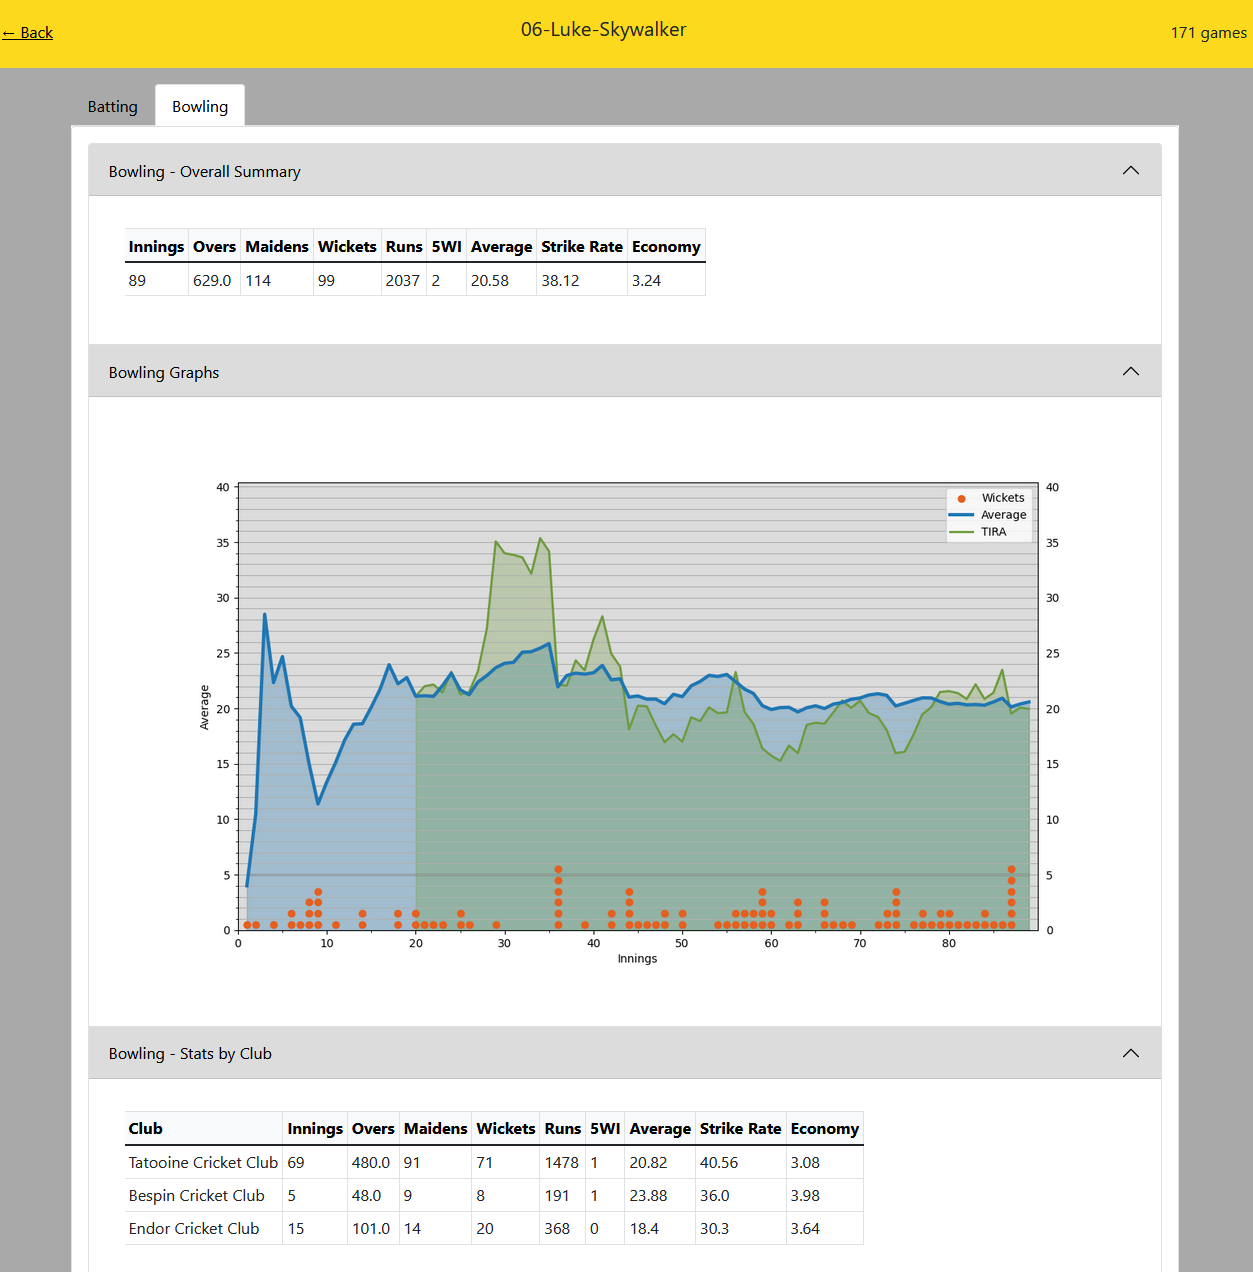
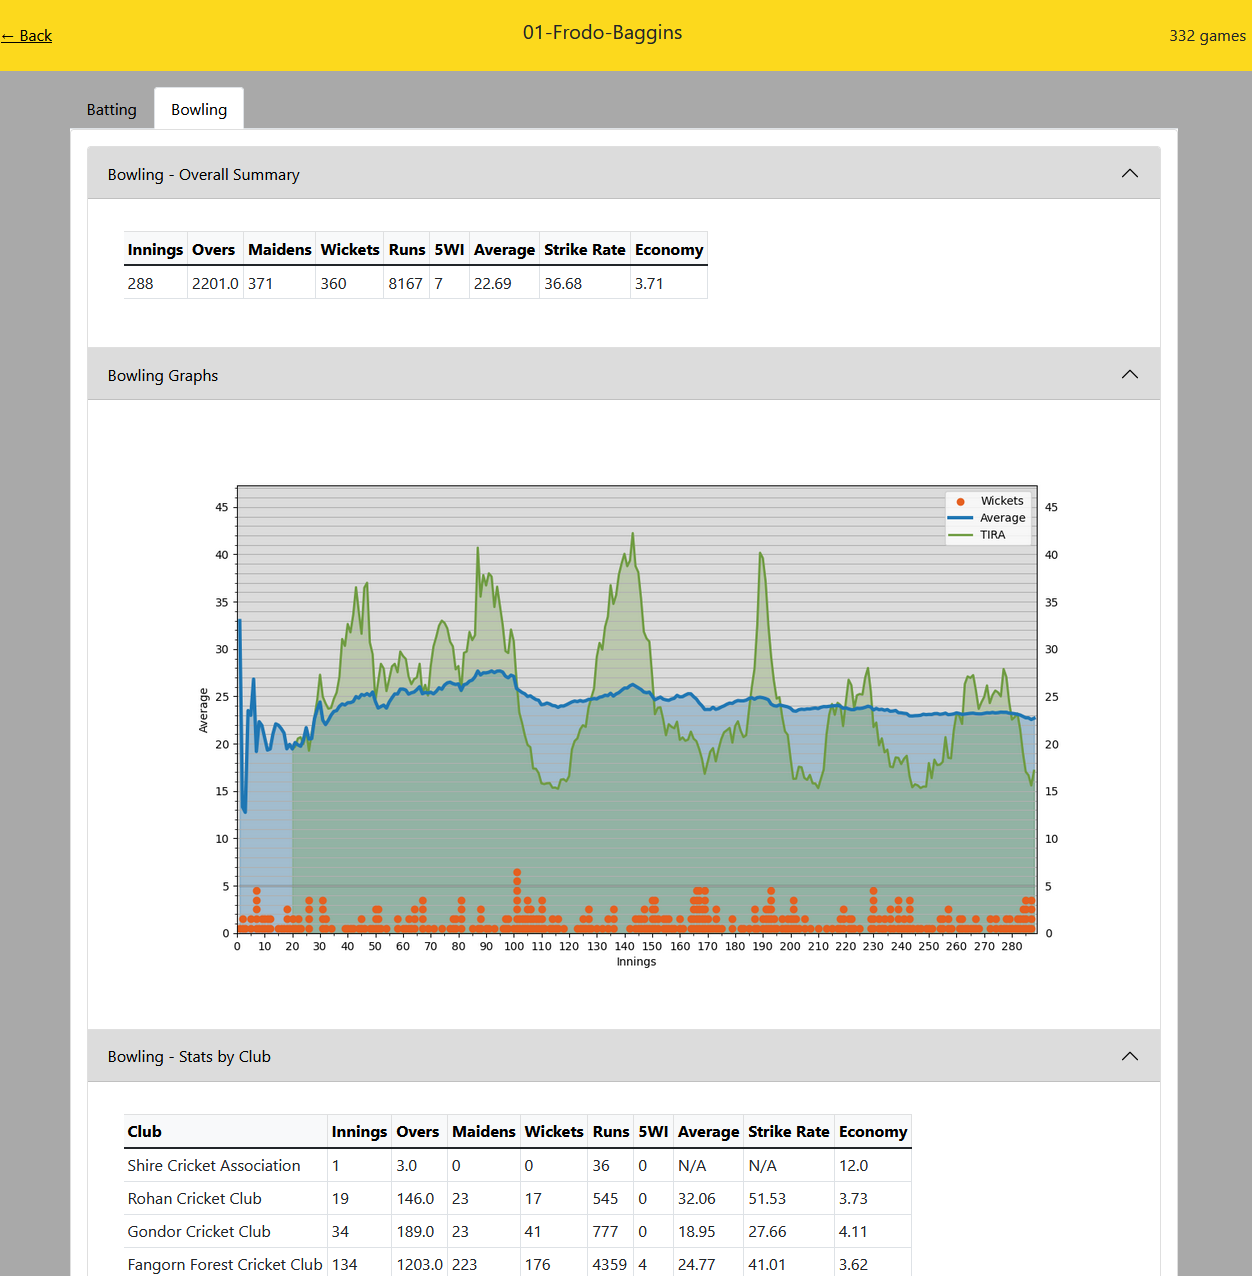
Redid a couple of the screenshots, using data that better highlights those features

diff --git a/README.md b/README.md
@@ -27,9 +27,25 @@ Can be especially helpful for captains to help work out the batting order and bo
 And here are some screenshots of the various different stats/views.
 
 ![Screenshot1](/Screenshots/LCSA-Screenshot1.png)
+*Batting View*
+
 ![Screenshot2](/Screenshots/LCSA-Screenshot2.png)
+*Bowling View*
+
 ![Screenshot3](/Screenshots/LCSA-Screenshot3.png)
+*Dismissal Breakdown*
+
 ![Screenshot4](/Screenshots/LCSA-Screenshot4.png)
+*Batting Position*
+
 ![Screenshot5](/Screenshots/LCSA-Screenshot5.png)
+*Bowling Workload*
+
 ![Screenshot6](/Screenshots/LCSA-Screenshot6.png)
+*Batting Stats by Season*
+
 ![Screenshot7](/Screenshots/LCSA-Screenshot7.png)
+*Batting Bingo*
+
+![Screenshot8](/Screenshots/LCSA-Screenshot8.png)
+*Nohit/Brohit*
